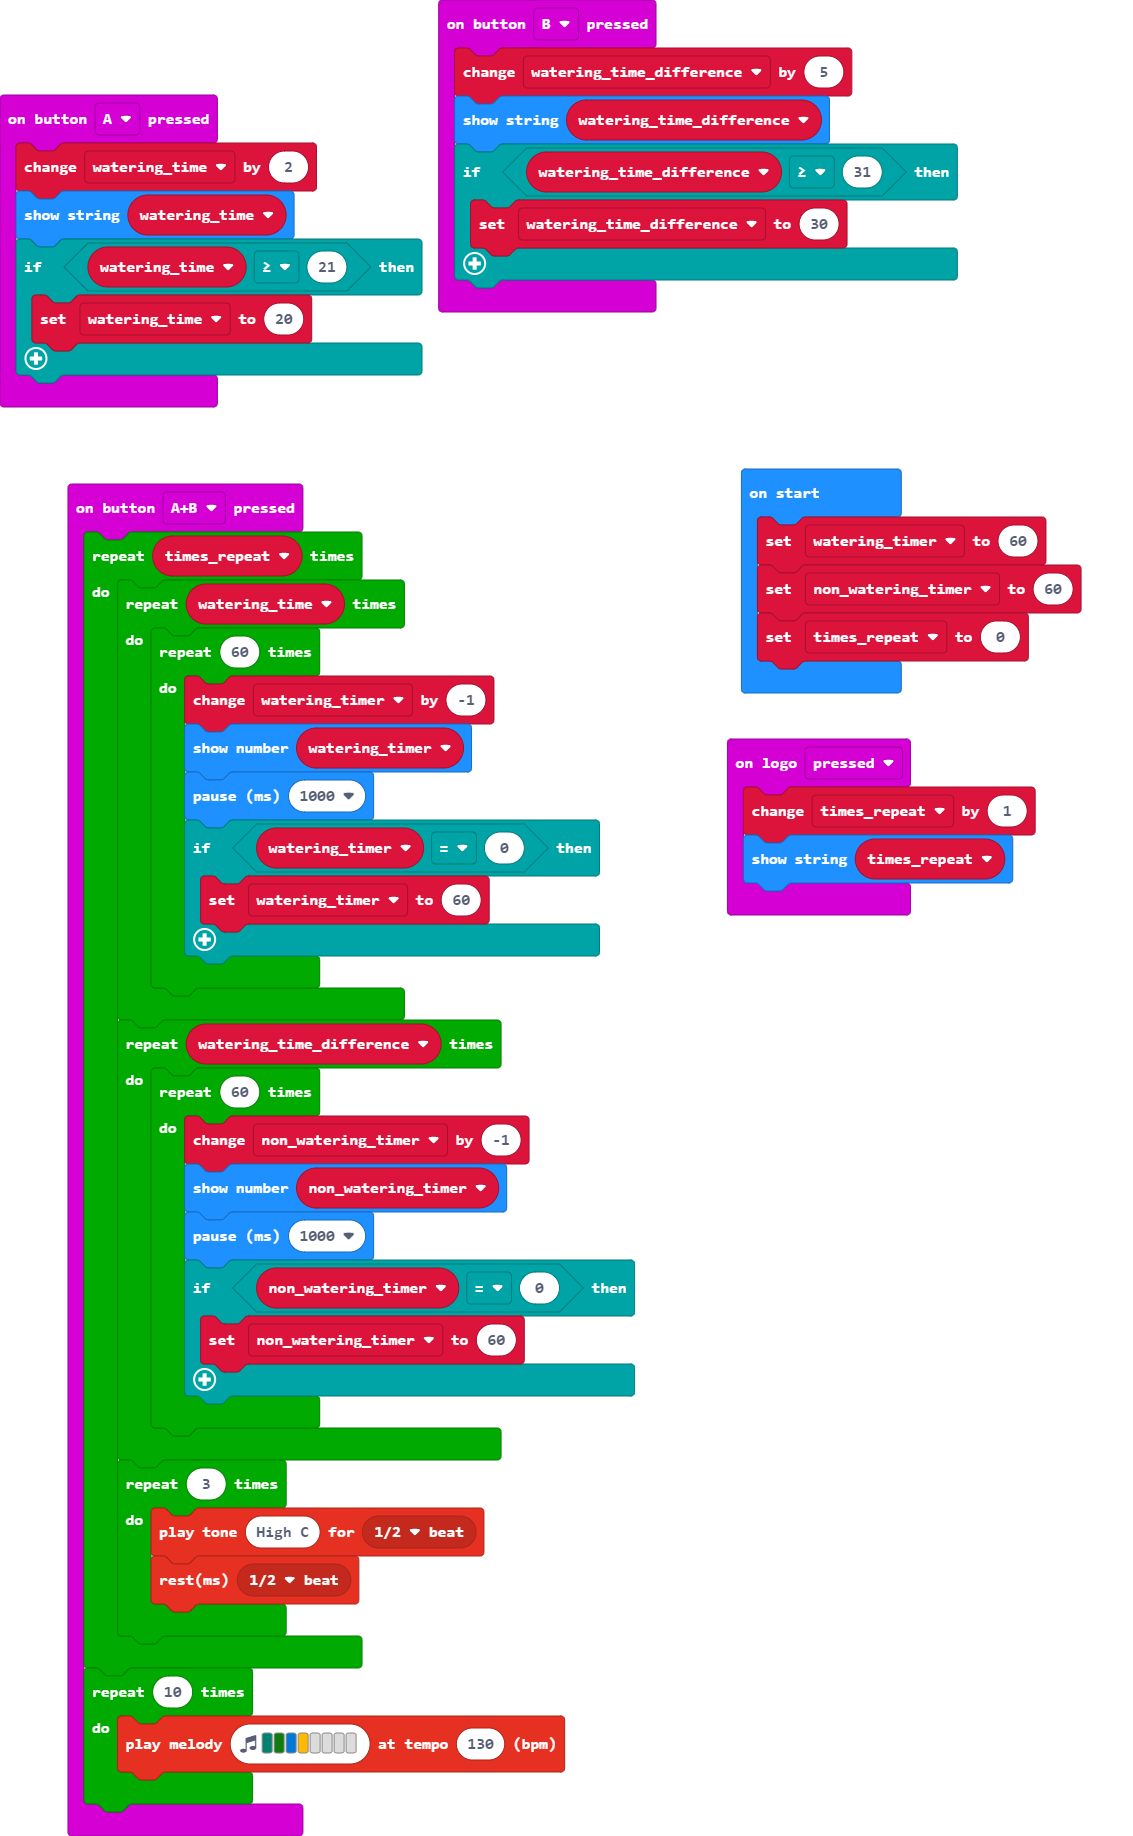
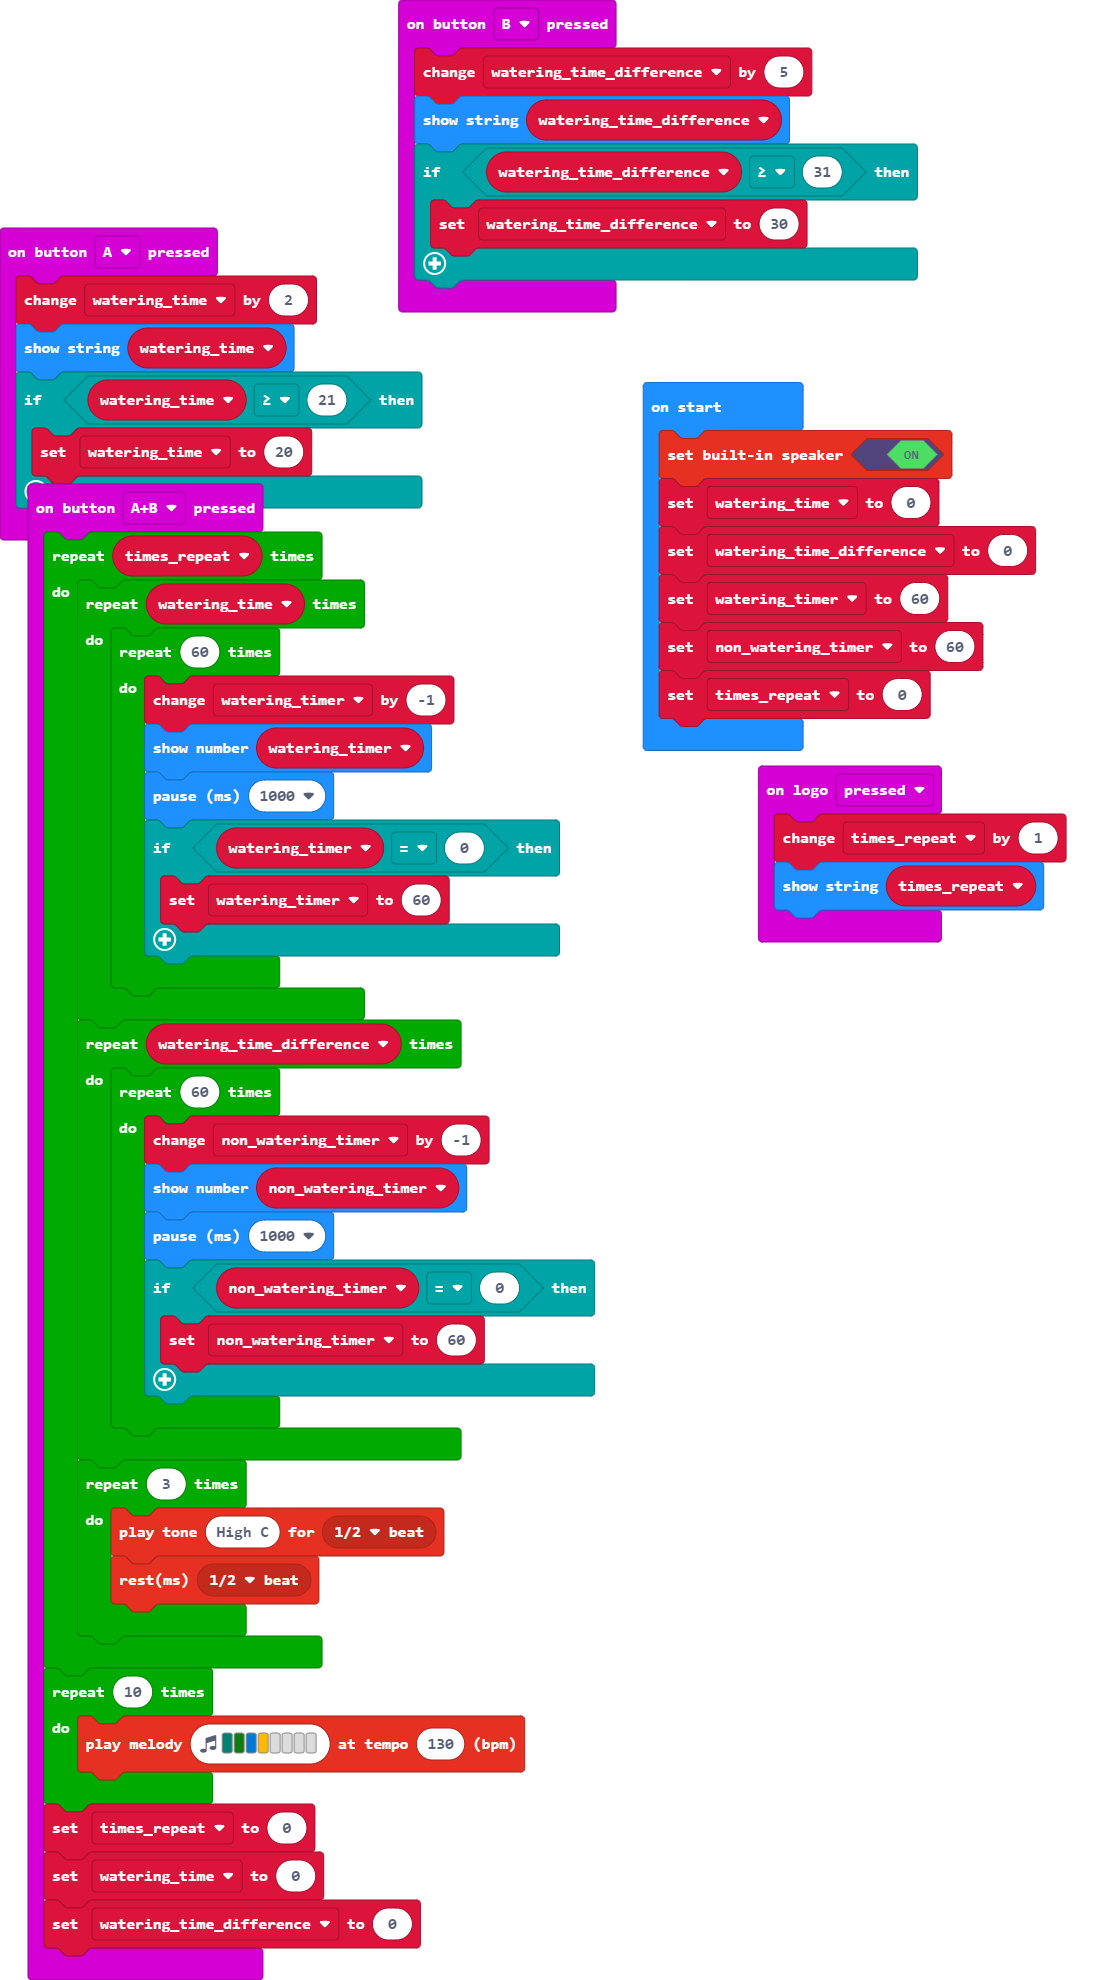
idk

diff --git a/main.ts b/main.ts
@@ -35,6 +35,9 @@ input.onButtonPressed(Button.AB, function () {
     for (let index = 0; index < 10; index++) {
         music.playMelody("F G E A - - - - ", 130)
     }
+    times_repeat = 0
+    watering_time = 0
+    watering_time_difference = 0
 })
 input.onButtonPressed(Button.B, function () {
     watering_time_difference += 5
@@ -47,11 +50,14 @@ input.onLogoEvent(TouchButtonEvent.Pressed, function () {
     times_repeat += 1
     basic.showString("" + (times_repeat))
 })
-let watering_time_difference = 0
-let watering_time = 0
 let times_repeat = 0
 let non_watering_timer = 0
 let watering_timer = 0
+let watering_time_difference = 0
+let watering_time = 0
+music.setBuiltInSpeakerEnabled(true)
+watering_time = 0
+watering_time_difference = 0
 watering_timer = 60
 non_watering_timer = 60
 times_repeat = 0
